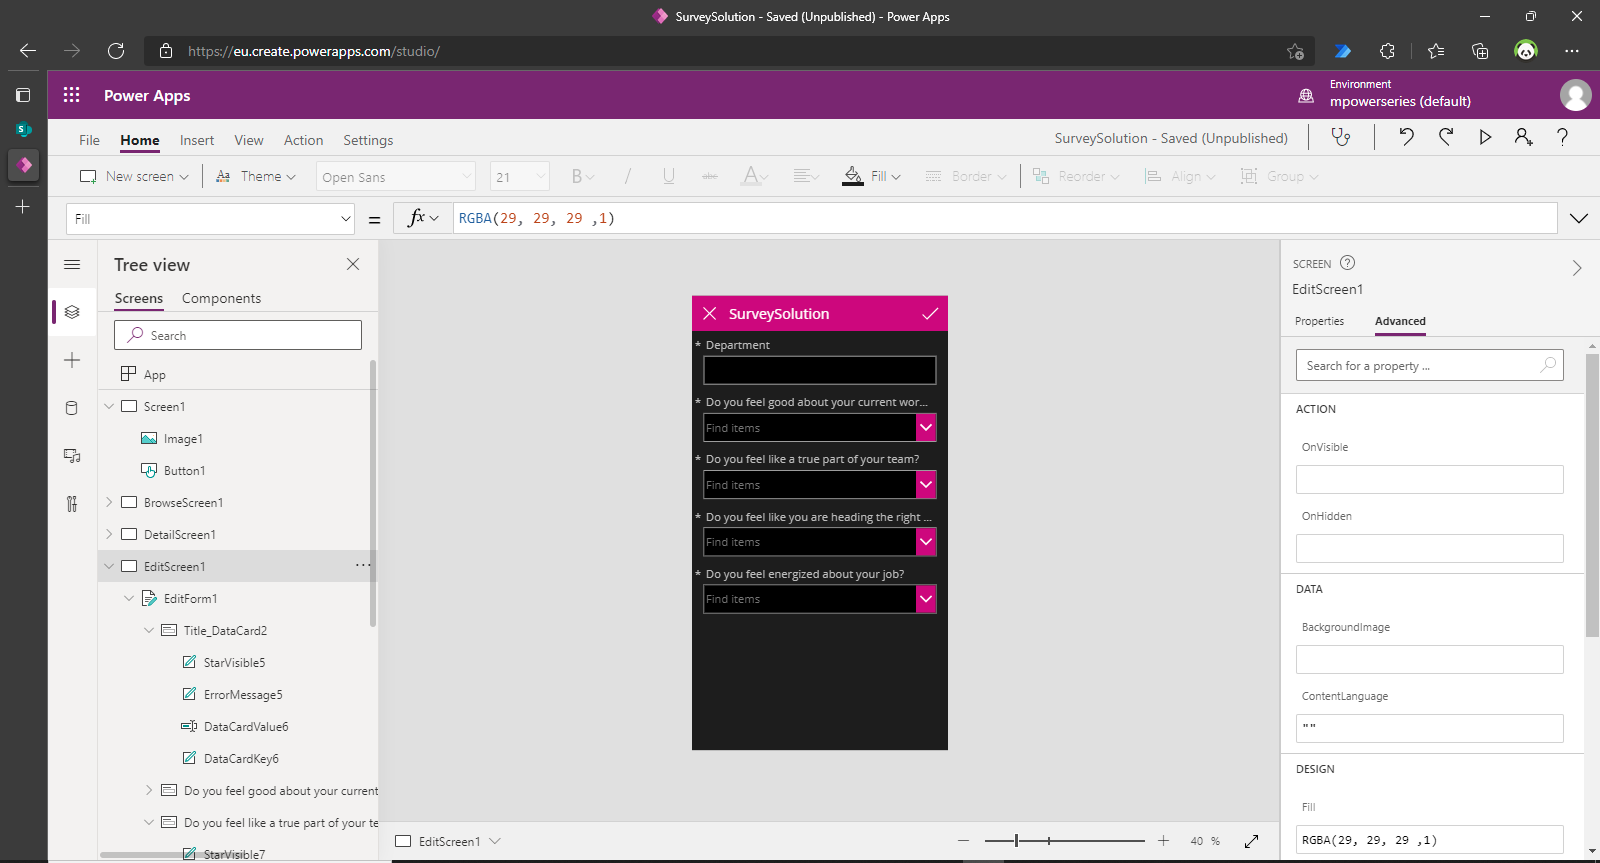
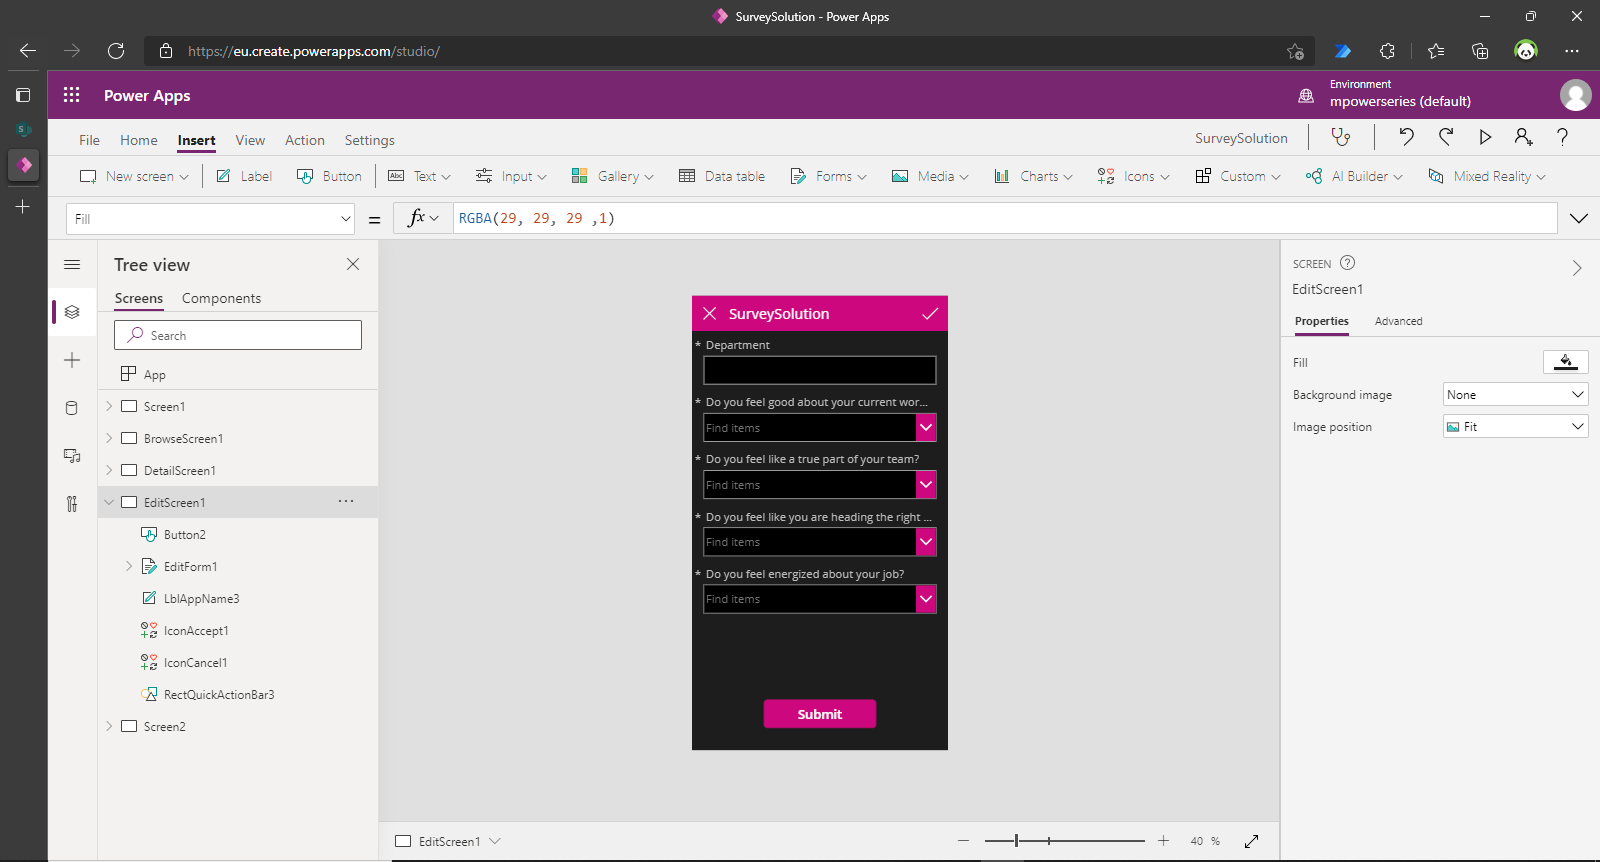
Creating Power Apps application

diff --git a/Power Apps Survey Solution/README.md b/Power Apps Survey Solution/README.md
@@ -46,7 +46,7 @@ To edit the text in the button, double click the button and type in "Get Started
 
 To add an action, click on the button then copy and paste the code below into the fx section showing false above the screen.
 
-``` PowerFX
+``` Power FX
 NewForm(EditForm1);Navigate(EditScreen1, ScreenTransition.None)
 ```
 
@@ -54,10 +54,27 @@ The code above tells the button to take you to the screen (EditScreen1) with the
 
 Next, we would need to move this screen to the top so it appears first. To do so, click on the ellipsis by the side of the screen (Screen1) and click on 'Move up' till the screen is the top on the list.
 
-As mentioned at the beginning, we want our employees to only interact with 3 screens. We have successfully designed the first screen, let's design the next screen which is the screen with the form (EditScreen1). Click on the screen to start editing.
+We would need to create a success screen which our employees would see after filling the form. To add that, click on 'New screen' at the top and select 'Success'. A new screen is immediately added to the application.
 
-Notice from EditScreen1 that the name of the first column is now Title instead of Department. To change that, click on the 'Title' row, hover to the sidebar on the right, click on 'Advanced' then 'Unlock to change properties'. Now change the DisplayName from "Title" to "Department".
+As mentioned at the beginning, we want our employees to only interact with 3 screens. We have successfully designed the first and last screen, let's design the second screen which would display the form (EditScreen1) and collect responses. Click on the screen to start editing.
 
-Also notice that an 'Attachments' column was added to the screen. Just click on the column, and delete it. Our screen should look like the one in the image below.
+Notice from EditScreen1 that the name of the first column is now Title instead of Department. To change that, click on the 'Title' row, hover to the sidebar on the right, click on 'Advanced' then 'Unlock to change properties'. Now change the DisplayName from "Title" to "Department". 
+
+Also notice that an 'Attachments' column was added to the screen. To get rid of it, just click on the column and delete it.
+
+To get our employee response after filling the form, we need to add a submit button. Follow the same steps you followed when creating the "Get Started" button. This time though, change the text from "Get Started" to "Submit".
+
+To add an action, click on the button then copy and paste the code below into the fx section showing false above the screen.
+
+``` Power FX
+SubmitForm(EditForm1) And Navigate(Screen2, ScreenTransition.Cover)
+```
+
+The code above to submit the form immediately the button is clicked and direct us to the success screen w 
+Our screen should look like the one in the image below.
 
 ![](/Images/powerapps-8.PNG)
+
+Now we have our first 2 screens created and designed. We would need to delete all other screens to avoid them from interfering with our application. To delete a screen, click on the ellipsis by the side of the screen name and then 'Delete'.
+
+When you delete the other screens, you would notice an error is flagged in "EditScreen1". Click on the icon then 'Edit in the formula bar' and delete the code. Thereafter you can delete the icon.
